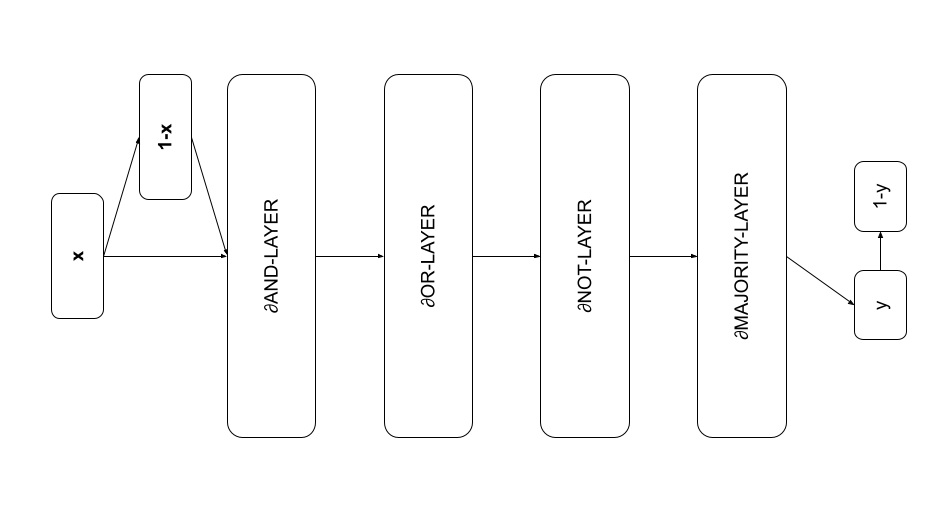
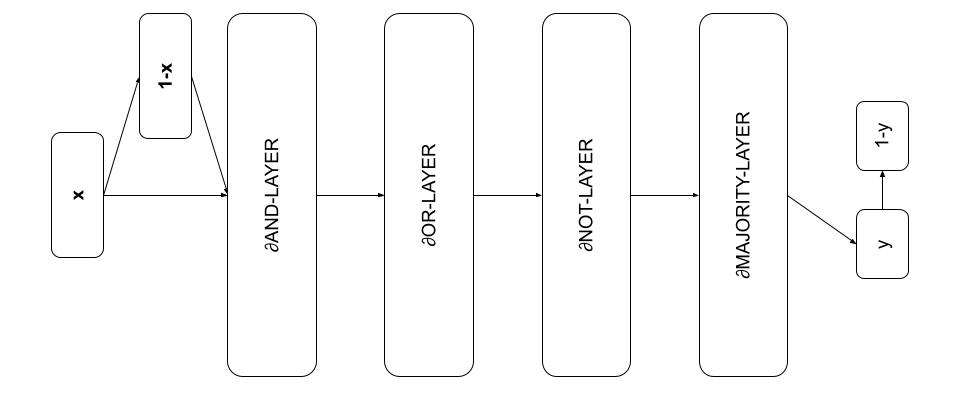
more

diff --git a/docs/db.tex b/docs/db.tex
@@ -193,21 +193,42 @@ A single OR neuron maps $n$ soft-bit inputs to a single soft-bit value. A $\part
 \begin{figure}[h]
 	\centering
 	\includegraphics[width=0.8\textwidth]{noisy-xor-architecture.png}
-	\caption{todo}
+	\caption{$\partial\mathbb{B}$ net for the noisy-xor problem.}
 	\label{fig:noisy-xor-architecture}
 \end{figure}
 
 todo: weight initialization
 
-\section{Conclusion}
+\begin{table}[]
+	\centering
+	\begin{tabular}{llllll}
+		\multicolumn{1}{c}{}                       & \multicolumn{5}{c}{accuracy}                                                                                                                                                            \\
+		\multicolumn{1}{l|}{}                      & \multicolumn{1}{l|}{mean}                  & \multicolumn{1}{l|}{5 \%ile}       & \multicolumn{1}{l|}{95 \%ile}       & \multicolumn{1}{l|}{min}           & \multicolumn{1}{l|}{max}            \\ \hline
+		\multicolumn{1}{|l|}{Tsetlin}              & \multicolumn{1}{l|}{99.3 +/- 0.3}          & \multicolumn{1}{l|}{95.9}          & \multicolumn{1}{l|}{100.0}          & \multicolumn{1}{l|}{91.6}          & \multicolumn{1}{l|}{100.0}          \\ \hline
+		\multicolumn{1}{|l|}{$\partial\mathbb{B}$} & \multicolumn{1}{l|}{\textbf{97.9 +/- 0.2}} & \multicolumn{1}{l|}{\textbf{95.4}} & \multicolumn{1}{l|}{\textbf{100.0}} & \multicolumn{1}{l|}{\textbf{93.6}} & \multicolumn{1}{l|}{\textbf{100.0}} \\ \hline
+		\multicolumn{1}{|l|}{neural network}       & \multicolumn{1}{l|}{95.4 +/- 0.5}          & \multicolumn{1}{l|}{90.1}          & \multicolumn{1}{l|}{98.6}           & \multicolumn{1}{l|}{88.2}          & \multicolumn{1}{l|}{99.9}           \\ \hline
+		\multicolumn{1}{|l|}{SVM}                  & \multicolumn{1}{l|}{58.0 +/- 0.3}          & \multicolumn{1}{l|}{56.4}          & \multicolumn{1}{l|}{59.2}           & \multicolumn{1}{l|}{55.4}          & \multicolumn{1}{l|}{66.5}           \\ \hline
+		\multicolumn{1}{|l|}{naive Bayes}          & \multicolumn{1}{l|}{49.8 +/- 0.2}          & \multicolumn{1}{l|}{48.3}          & \multicolumn{1}{l|}{51.0}           & \multicolumn{1}{l|}{41.3}          & \multicolumn{1}{l|}{52.7}           \\ \hline
+		\multicolumn{1}{|l|}{logistic regression}  & \multicolumn{1}{l|}{49.8 +/- 0.3}          & \multicolumn{1}{l|}{47.8}          & \multicolumn{1}{l|}{51.1}           & \multicolumn{1}{l|}{41.1}          & \multicolumn{1}{l|}{53.1}           \\ \hline
+	\end{tabular}
+	\caption{Noisy-XOR results.}
+	\label{tab:noisy-xor-results}
+\end{table}
+\begin{comment}
+"""
+| Technique/Accuracy  | Mean           | 5 %ile  | 95 %ile | Min    | Max    |
+| ------------------- | -------------- | ------- | ------- | ------ | ------ |
+| Tsetlin             | 99.3 +/- 0.3   | 95.9    | 100.0   | 91.6   | 100.0  |
+| dB                  | 97.9 +/- 0.2   | 95.4    | 100.0   | 93.6   | 100.0  |
+| Neural network      | 95.4 +/- 0.5   | 90.1    | 98.6    | 88.2   | 99.9   |
+| SVM                 | 58.0 +/- 0.3   | 56.4    | 59.2    | 55.4   | 66.5   |
+| Naive Bayes         | 49.8 +/- 0.2   | 48.3    | 51.0    | 41.3   | 52.7   |
+| Logistic regression | 49.8 +/- 0.3   | 47.8    | 51.1    | 41.1   | 53.1   |
+Source: https://arxiv.org/pdf/1804.01508.pdf
+"""
+\end{comment}
 
-%\begin{figure}[h]
-%\begin{center}
-%\framebox[4.0in]{$\;$}
-%\fbox{\rule[-.5cm]{0cm}{4cm} \rule[-.5cm]{4cm}{0cm}}
-%\end{center}
-%\caption{Sample figure caption.}
-%\end{figure}
+\section{Conclusion}
 
 
 \subsubsection*{Acknowledgments}
